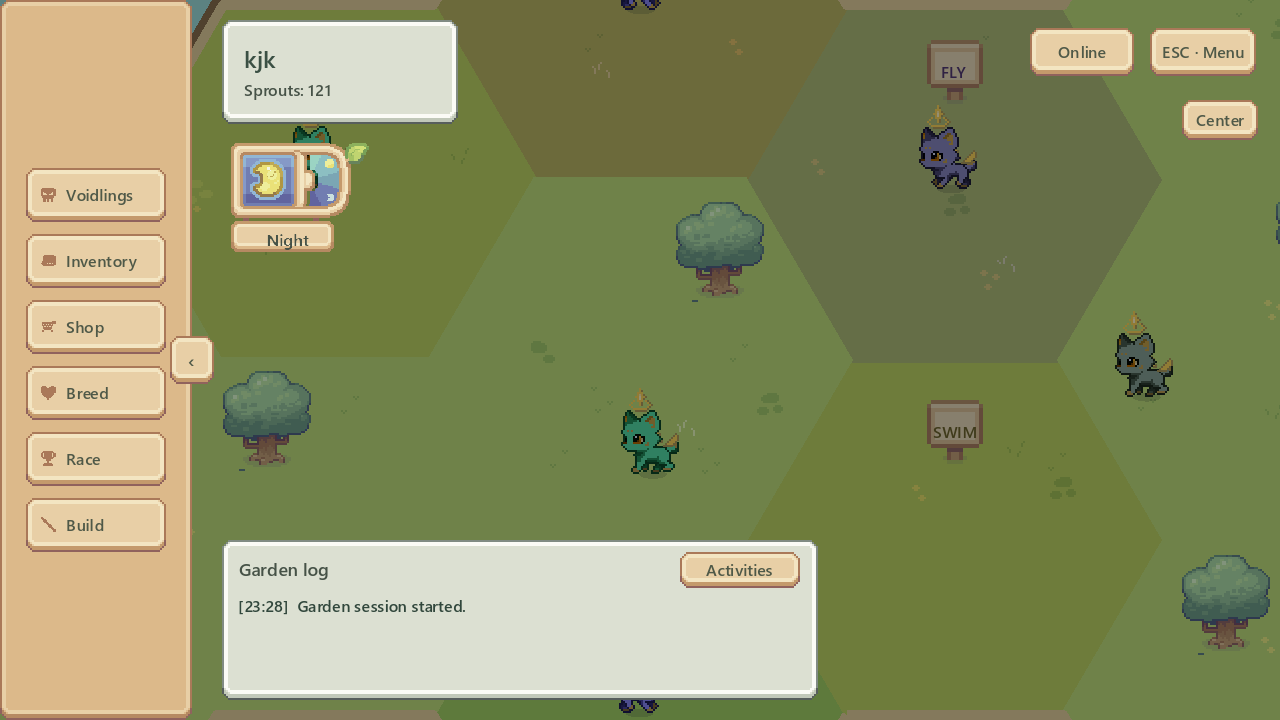
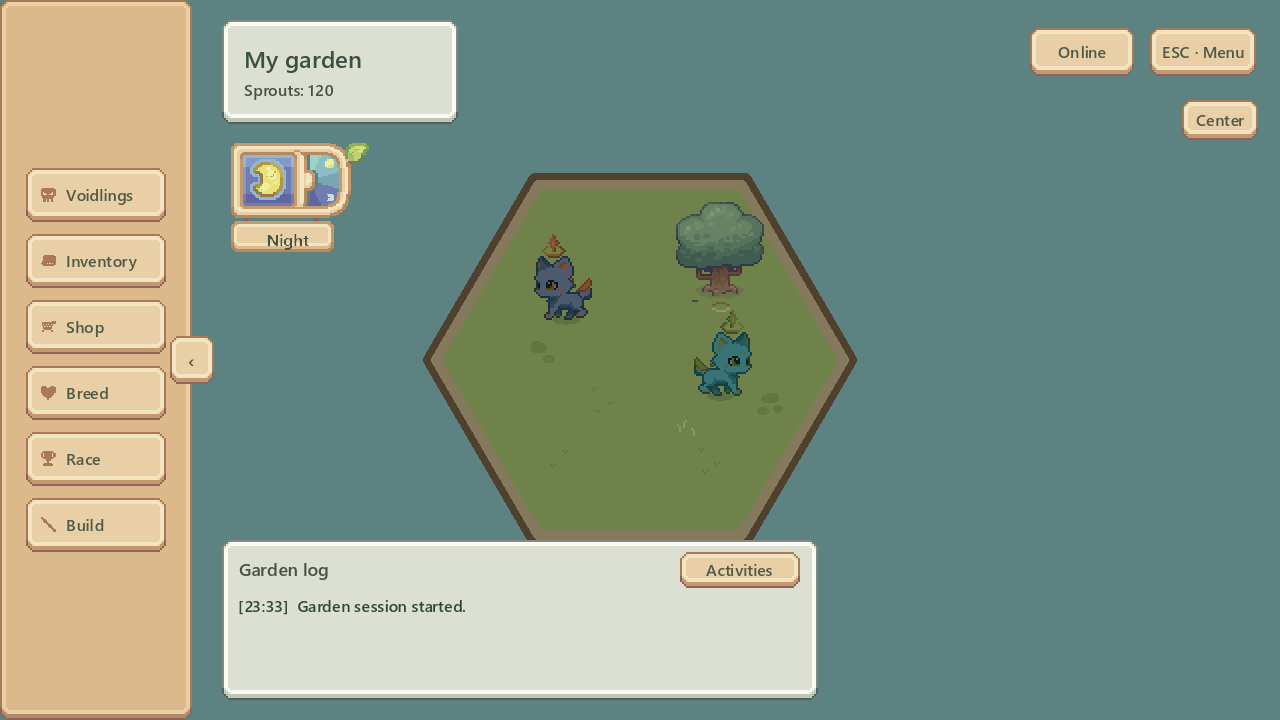
Keep Garden HUD visible beside collapsed rail

diff --git a/Scripts/UI/MainController.GardenUiSmoke.cs b/Scripts/UI/MainController.GardenUiSmoke.cs
@@ -45,9 +45,12 @@ public partial class MainController
             await ClickGardenControl(_railToggle);
             await ToSignal(GetTree().CreateTimer(0.3), SceneTreeTimer.SignalName.Timeout);
             RequireOnScreen(_railToggle);
-            if (rail.Visible || _gardenStatus.Visible || _dayNightDial.Visible || _gardenEventLog.Visible ||
+            if (rail.Visible || !_gardenStatus.Visible || !_dayNightDial.Visible || !_gardenEventLog.Visible ||
                 !_railToggle.HasFocus() || actions.GetChildren().OfType<Button>().Any(b => b.FocusMode != Control.FocusModeEnum.None))
-                throw new InvalidOperationException("Collapsed Garden HUD is still visible or keyboard focus is lost.");
+                throw new InvalidOperationException("Collapsed navigation hid persistent Garden HUD or keyboard focus is lost.");
+            foreach (var control in new Control[] { _gardenStatus, _dayNightDial, _gardenEventLog })
+                if (Mathf.Abs(control.Position.X - 10) > 1)
+                    throw new InvalidOperationException($"{control.Name} did not move into the free left-side space.");
             if (Mathf.Abs(_railToggle.Position.Y - (ScreenHeight - _railToggle.Size.Y) / 2) > 1)
                 throw new InvalidOperationException("Navigation handle is not centered on the screen edge.");
             await CaptureGardenUi("garden-collapsed");
@@ -57,6 +60,8 @@ public partial class MainController
             await ToSignal(GetTree().CreateTimer(0.3), SceneTreeTimer.SignalName.Timeout);
             RequireOnScreen(rail);
             if (!rail.Visible || !_gardenStatus.Visible || !_dayNightDial.Visible || !_gardenEventLog.Visible ||
+                Mathf.Abs(_gardenStatus.Position.X - 110) > 1 || Mathf.Abs(_dayNightDial.Position.X - 110) > 1 ||
+                Mathf.Abs(_gardenEventLog.Position.X - 110) > 1 ||
                 actions.GetChildren().OfType<Button>().Any(b => b.FocusMode != Control.FocusModeEnum.All))
                 throw new InvalidOperationException("Navigation did not recover from interrupted animation.");
 

diff --git a/Scripts/UI/MainController.cs b/Scripts/UI/MainController.cs
@@ -228,16 +228,13 @@ public partial class MainController : Node
         _railTween = CreateTween().SetParallel().SetTrans(Tween.TransitionType.Cubic).SetEase(Tween.EaseType.Out);
         _railTween.TweenProperty(_gardenRail, "position:x", _railCollapsed ? -96f : 0f, 0.22);
         _railTween.TweenProperty(_railToggle, "position:x", _railCollapsed ? 4f : 84f, 0.22);
-        _railTween.TweenProperty(_gardenStatus, "position:x", _railCollapsed ? -120f : 110f, 0.22);
-        _railTween.TweenProperty(_dayNightDial, "position:x", _railCollapsed ? -78f : 110f, 0.22);
-        _railTween.TweenProperty(_gardenEventLog, "position:x", _railCollapsed ? -300f : 110f, 0.22);
-        _railTween.TweenProperty(_saveStatusLabel, "position:x", _railCollapsed ? -84f : 12f, 0.22);
+        _railTween.TweenProperty(_gardenStatus, "position:x", _railCollapsed ? 10f : 110f, 0.22);
+        _railTween.TweenProperty(_dayNightDial, "position:x", _railCollapsed ? 10f : 110f, 0.22);
+        _railTween.TweenProperty(_gardenEventLog, "position:x", _railCollapsed ? 10f : 110f, 0.22);
         _railTween.Finished += () =>
         {
             _gardenRail.Visible = !_railCollapsed;
-            _gardenStatus.Visible = !_railCollapsed;
-            _dayNightDial.Visible = !_railCollapsed;
-            _gardenEventLog.Visible = !_railCollapsed && !_modalHost.IsOpen;
+            _gardenEventLog.Visible = !_modalHost.IsOpen;
         };
     }
 
@@ -313,7 +310,7 @@ public partial class MainController : Node
         RefreshQuickMenu();
 
         if (_gardenEventLog != null && GodotObject.IsInstanceValid(_gardenEventLog))
-            _gardenEventLog.Visible = !_modalHost.IsOpen && !_railCollapsed;
+            _gardenEventLog.Visible = !_modalHost.IsOpen;
 
         if (_modalHost.IsOpen)
             HideGardenHudPanels();

diff --git a/docs/UI_UX_IMPLEMENTATION_PLAN.md b/docs/UI_UX_IMPLEMENTATION_PLAN.md
@@ -94,7 +94,7 @@ Add `--voidling-garden-ui-shots` with a graphical renderer to capture the review
 
 - Added a premium weather-sheet sun/moon display below My garden, following the same local clock as Garden lighting (dawn, day, dusk, night).
 - Removed the floating notification line. Toast-only notices now reach the Garden log, while matching toast/event notifications within one deferred batch produce one entry.
-- Added a 0.22-second sliding rail toggle centered on the rail edge. The Garden name/sprouts, day/night dial, Garden log, and save feedback slide away with the rail; the centered expand arrow remains on the left edge. Hidden navigation leaves keyboard traversal, and repeated clicks can reverse the slide.
+- Added a 0.22-second sliding rail toggle centered on the rail edge. When the rail closes, the Garden name/sprouts, day/night dial, and Garden log stay visible and slide left into the freed space; the centered expand arrow remains on the left edge. Hidden navigation leaves keyboard traversal, and repeated clicks can reverse the slide.
 - Extended the Garden smoke check with clock boundaries, collapse/expand and interrupted animation, keyboard access, and notification deduplication. All 236 tests and the CI-equivalent local checks passed; graphical review passed at 1280×720.
 
 Review captures: [expanded](ui-overhaul/garden-refined.png), [collapsed](ui-overhaul/garden-collapsed.png). Garden remains the active playtest gate before Shop implementation.
